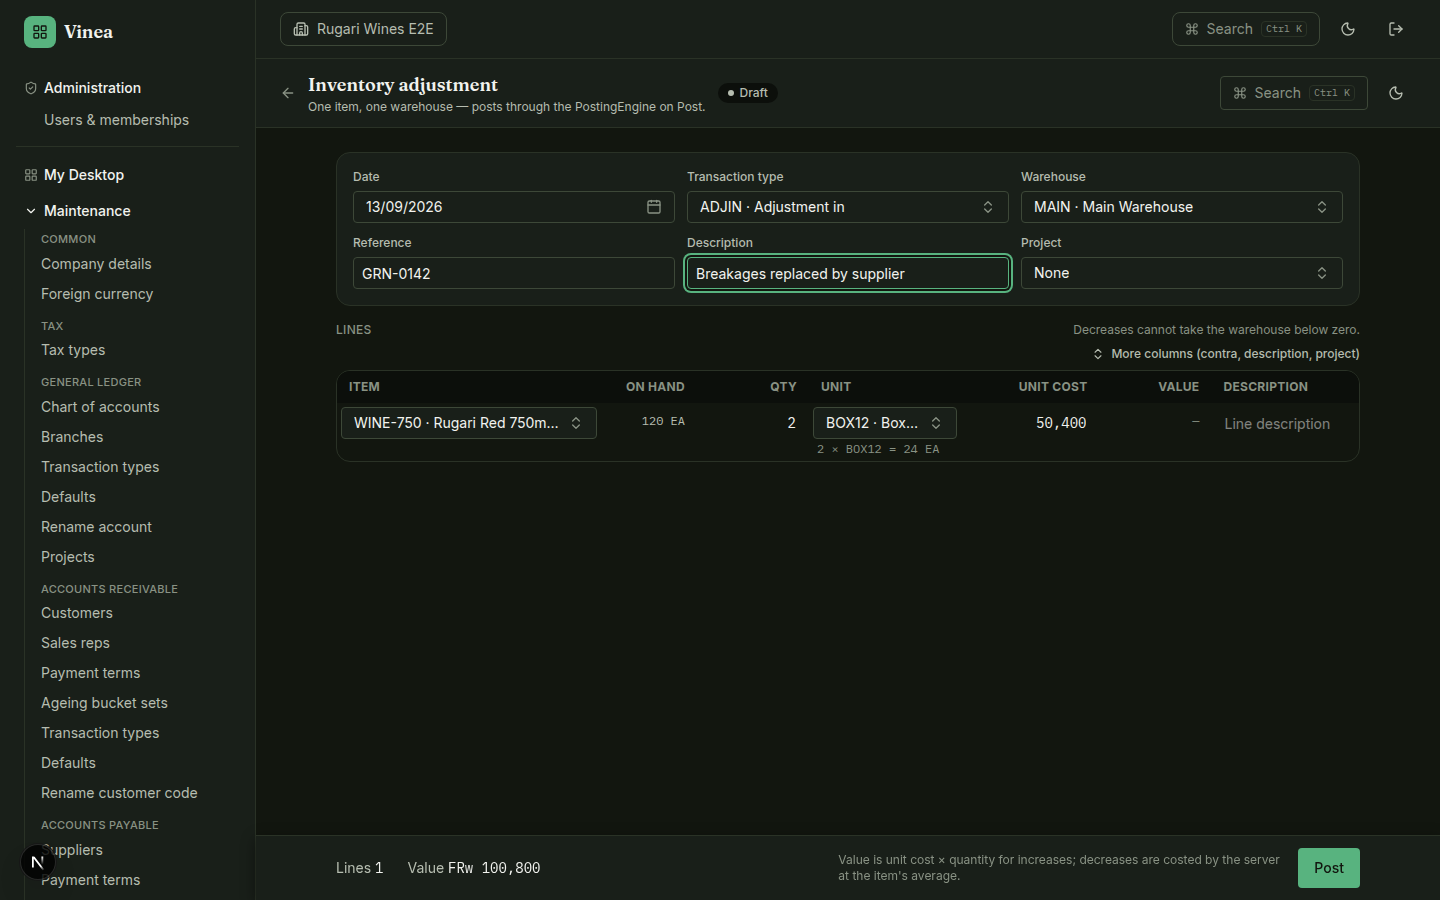
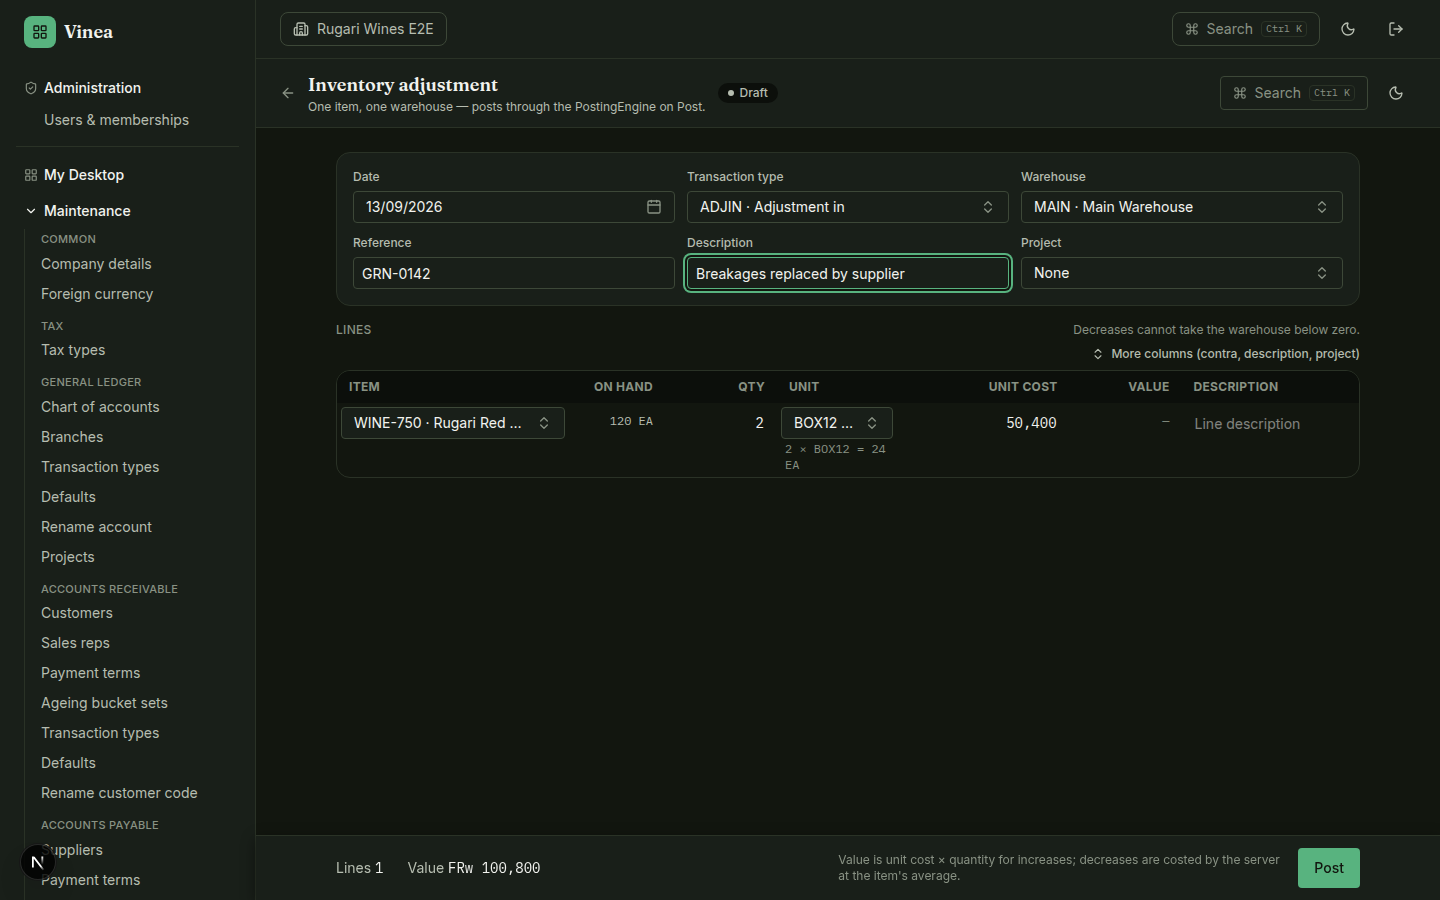
style(inventory): narrower grid pickers so the value column stays in frame
Claude-Session: https://claude.ai/code/session_01JuBp3oYfrfoBXLWbLyg7i8

diff --git a/frontend/src/design/components/line-grid.tsx b/frontend/src/design/components/line-grid.tsx
@@ -459,7 +459,7 @@ export function LineGrid({
                           // Fixed widths on the pickers, not the cells: an auto-layout
                           // table ignores a cell's max-width, and an item label with its
                           // on-hand suffix would otherwise push unit cost off the screen.
-                          className={cn("h-8 w-64", itemErr && "border-[var(--vinea-danger)]")}
+                          className={cn("h-8 w-56", itemErr && "border-[var(--vinea-danger)]")}
                           onFocus={() => startCellEdit(r, COL.item, "itemId", row.itemId)}
                           onKeyDown={(e) => onCellKeyDown(e, r, COL.item, "itemId")}
                         />
@@ -473,7 +473,7 @@ export function LineGrid({
                             onValueChange={(v) => updateRow(r, { warehouseId: v })}
                             placeholder={t("warehousePlaceholder")}
                             ariaLabel={t("warehouseAria", { row: r + 1 })}
-                            className={cn("h-8 w-40", warehouseErr && "border-[var(--vinea-danger)]")}
+                            className={cn("h-8 w-36", warehouseErr && "border-[var(--vinea-danger)]")}
                             onFocus={() => startCellEdit(r, COL.warehouse, "warehouseId", row.warehouseId)}
                             onKeyDown={(e) => onCellKeyDown(e, r, COL.warehouse, "warehouseId")}
                           />
@@ -499,7 +499,7 @@ export function LineGrid({
                             onValueChange={(v) => updateRow(r, { transactionTypeId: v })}
                             placeholder={t("transactionTypePlaceholder")}
                             ariaLabel={t("transactionTypeAria", { row: r + 1 })}
-                            className={cn("h-8 w-44", typeErr && "border-[var(--vinea-danger)]")}
+                            className={cn("h-8 w-40", typeErr && "border-[var(--vinea-danger)]")}
                             onFocus={() => startCellEdit(r, COL.transactionType, "transactionTypeId", row.transactionTypeId)}
                             onKeyDown={(e) => onCellKeyDown(e, r, COL.transactionType, "transactionTypeId")}
                           />
@@ -531,7 +531,7 @@ export function LineGrid({
                           onValueChange={(v) => updateRow(r, { uomId: v })}
                           placeholder={t("uomPlaceholder")}
                           ariaLabel={t("uomAria", { row: r + 1 })}
-                          className={cn("h-8 w-36", uomErr && "border-[var(--vinea-danger)]")}
+                          className={cn("h-8 w-28", uomErr && "border-[var(--vinea-danger)]")}
                           onFocus={() => startCellEdit(r, COL.uom, "uomId", row.uomId)}
                           onKeyDown={(e) => onCellKeyDown(e, r, COL.uom, "uomId")}
                         />
